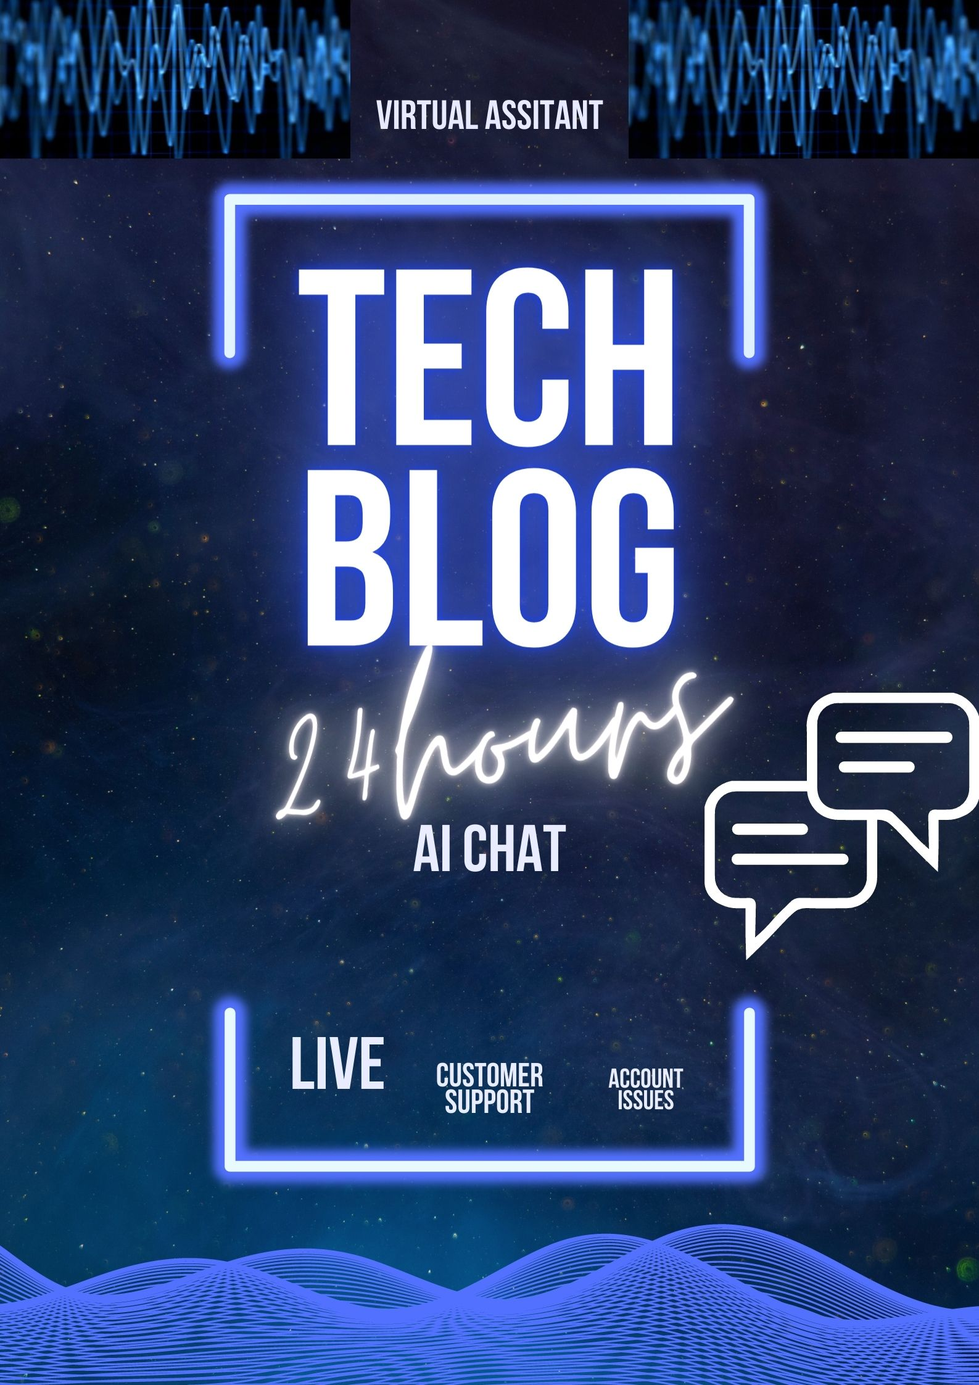
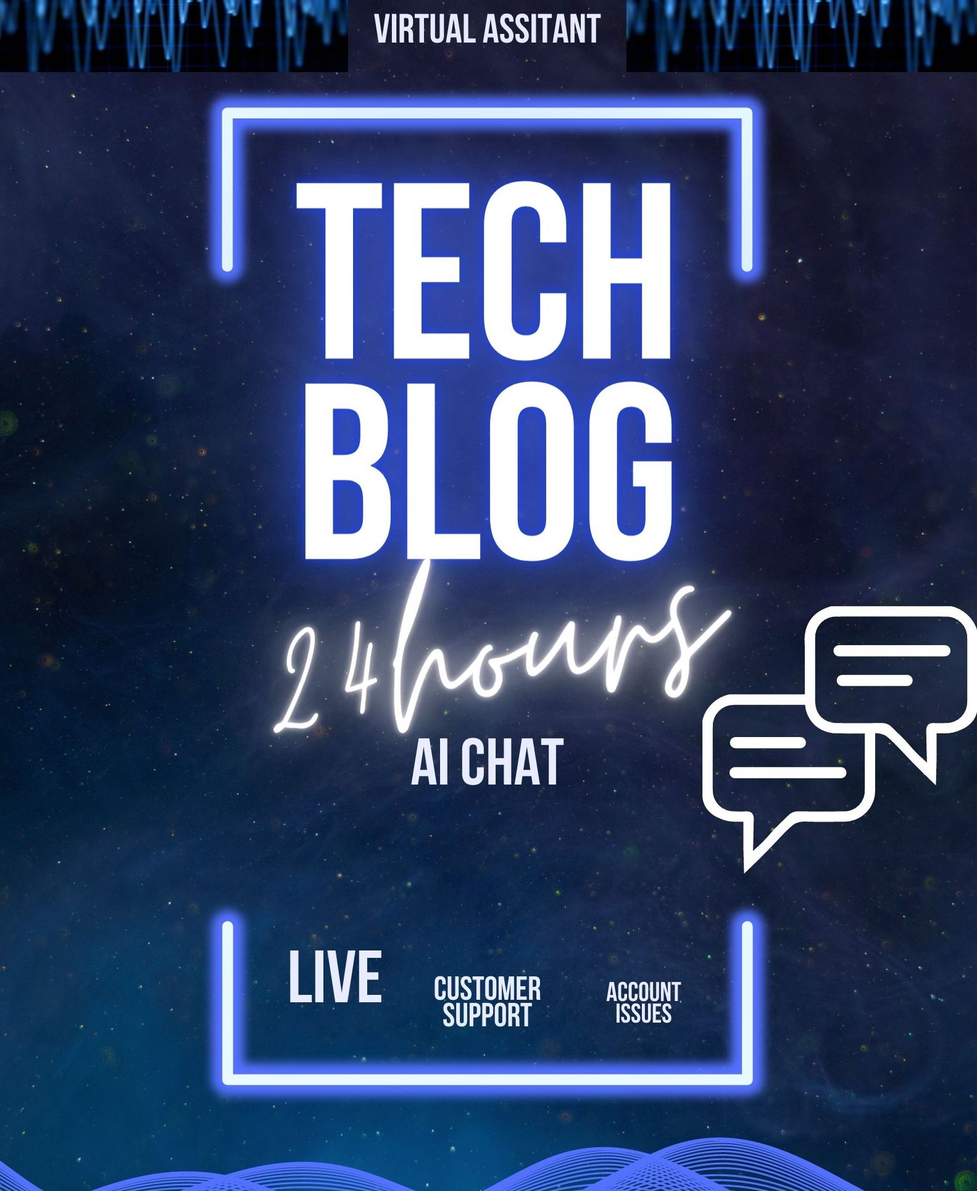
made some changes

diff --git a/build/static/js/main.11b0cb2d.chunk.js b/build/static/js/main.11b0cb2d.chunk.js
@@ -1,0 +1,2 @@
+(this["webpackJsonpgohelppal.com"]=this["webpackJsonpgohelppal.com"]||[]).push([[0],{57:function(e,t,c){},61:function(e,t,c){},62:function(e,t,c){},71:function(e,t,c){},93:function(e,t,c){},94:function(e,t,c){},96:function(e,t,c){"use strict";c.r(t);var i=c(4),s=c.n(i),n=c(26),l=c.n(n),o=(c(57),c(58),c(59),c(60),c.p,c(61),c(7)),a=c(43),r=c(44),j=c(53),b=c(52),h=(c(62),c(10)),d=c(47),x=c(45),u=c(2),O=function(e){Object(j.a)(c,e);var t=Object(b.a)(c);function c(){return Object(a.a)(this,c),t.apply(this,arguments)}return Object(r.a)(c,[{key:"render",value:function(){this.props.location.pathname;return Object(u.jsxs)("div",{className:"nav",children:[Object(u.jsx)("div",{id:"sectionOne",children:Object(u.jsx)("h3",{style:{paddingBottom:"1px",fontSize:"27px",fontFamily:"Futura",fontWeight:"bold"},children:Object(u.jsx)("span",{style:{color:"#00F4A2"},children:"GoHelpPal"})})}),Object(u.jsxs)("div",{id:"sectionTwo",children:[Object(u.jsx)(h.b,{to:"/",className:"Nav__brand"}),Object(u.jsx)("div",{className:"aboutMe",children:Object(u.jsx)(h.c,{className:"firstLink",to:"/about",activeStyle:{color:"#ECEFF8"},style:{color:"#00F4A2"},children:Object(u.jsx)("div",{className:"App",children:Object(u.jsx)(x.a,{icon:d.a,style:{fontSize:"18px"}})})})}),Object(u.jsx)("div",{className:"Resume",children:Object(u.jsx)(h.c,{className:"fourthLink",to:"/resume",activeStyle:{color:"#ECEFF8",fontSize:"18px"},style:{color:"#808080"},children:"Johny Matharu"})})]})]})}}]),c}(s.a.Component),f=Object(o.f)(O),p=(c(71),c.p+"static/media/1.b653a956.jpeg"),y=c.p+"static/media/2.cd06719c.jpeg",m=c.p+"static/media/3.a96f49be.jpeg",v=c.p+"static/media/4.ad53aca6.jpeg",F=c(21),g=c(12),S=c.n(g);function z(){return Object(u.jsxs)("section",{children:[Object(u.jsx)(F.c,{id:"size",children:Object(u.jsxs)("div",{className:"backround",children:[Object(u.jsx)("h3",{className:"headingBack",style:{fontSize:"18px",fontFamily:"Futura",fontWeight:"bold",color:"white"},children:"2021 University Projects"}),Object(u.jsxs)("div",{id:"button",children:[Object(u.jsxs)("div",{id:"height",children:[Object(u.jsxs)("div",{id:"equalBox",children:[" ",Object(u.jsx)("span",{children:Object(u.jsx)("h3",{style:{fontFamily:"Futura",color:"#808080",fontSize:"18px"},children:"myBid\xa0"})}),Object(u.jsxs)("h6",{children:[Object(u.jsx)("a",{href:"https://github.com/PrimalOrB/myBid",children:Object(u.jsx)("i",{class:"fab fa-github",style:{color:"#00F4A2",fontSize:"16px"}})})," "]}),Object(u.jsx)("br",{}),Object(u.jsx)("br",{})]}),Object(u.jsx)("div",{id:"equalBox",children:Object(u.jsx)("a",{href:"https://mybid-live.herokuapp.com/",children:Object(u.jsx)("img",{src:p})})}),Object(u.jsxs)("div",{id:"equalBox",children:[Object(u.jsx)("br",{}),Object(u.jsx)("h6",{style:{fontFamily:"Futura",color:"black",fontSize:"15px"},children:" MERN Full Stack SPA: An auction platform "}),Object(u.jsx)("h6",{style:{fontFamily:"Futura",color:"black",fontSize:"15px"},children:"with social features allowing anyone to"}),Object(u.jsx)("h6",{style:{fontFamily:"Futura",color:"black",fontSize:"15px"},children:"create and bid on auctions. Once you\u2019ve won"}),Object(u.jsx)("h6",{style:{fontFamily:"Futura",color:"black",fontSize:"15px"},children:"an auction pay using Stripe or any Cryptocurrency."})]})]}),Object(u.jsxs)("div",{id:"height",children:[Object(u.jsxs)("div",{id:"equalBox",children:[Object(u.jsx)("h3",{style:{fontFamily:"Futura",color:"#808080",fontSize:"18px"},children:"Tech Blog\xa0"}),Object(u.jsx)("h6",{children:Object(u.jsx)("a",{href:"https://github.com/JohnyMatharu/Tech-Blog",children:Object(u.jsx)("i",{class:"fab fa-github",style:{color:"#00F4A2",fontSize:"18px"}})})}),Object(u.jsx)("br",{}),Object(u.jsx)("br",{})]}),Object(u.jsx)("div",{id:"equalBox",children:Object(u.jsx)("a",{href:"https://stormy-castle-86583.herokuapp.com/",children:Object(u.jsx)("img",{src:y})})}),Object(u.jsxs)("div",{id:"equalBox",children:[Object(u.jsx)("br",{}),Object(u.jsx)("h6",{style:{fontFamily:"Futura",color:"black",fontSize:"15px"},children:" An app for users to post help offers help "}),Object(u.jsx)("h6",{style:{fontFamily:"Futura",color:"black",fontSize:"15px"},children:"or volunteer opportunities. People will"}),Object(u.jsx)("h6",{style:{fontFamily:"Futura",color:"black",fontSize:"15px"},children:"leave their posts who wish to help or volunteer."}),Object(u.jsx)("h6",{style:{fontFamily:"Futura",color:"black",fontSize:"15px"},children:"Person requesting can offer a reward to helper."})]})]}),Object(u.jsxs)("div",{id:"height",children:[Object(u.jsxs)("div",{id:"equalBox",children:[" ",Object(u.jsx)("h3",{style:{fontFamily:"Futura",color:"#808080",fontSize:"18px"},children:"Maunny\xa0"}),Object(u.jsx)("h6",{children:Object(u.jsx)("a",{href:"https://github.com/JohnyMatharu/Maunny/tree/main",children:Object(u.jsx)("i",{class:"fab fa-github",style:{color:"#00F4A2",fontSize:"18px"}})})}),Object(u.jsx)("br",{}),Object(u.jsx)("br",{})]}),Object(u.jsx)("div",{id:"equalBox",children:Object(u.jsx)("a",{href:"https://johnymatharu.github.io/Maunny/",children:Object(u.jsx)("img",{src:m})})}),Object(u.jsxs)("div",{id:"equalBox",children:[Object(u.jsx)("br",{}),Object(u.jsx)("h6",{style:{fontFamily:"Futura",color:"black",fontSize:"15px"},children:" Maunny is an application that gets comprehensive"}),Object(u.jsx)("h6",{style:{fontFamily:"Futura",color:"black",fontSize:"15px"},children:"information that would assist users in making"}),Object(u.jsx)("h6",{style:{fontFamily:"Futura",color:"black",fontSize:"15px"},children:"a correct purchase decision. Its an online"}),Object(u.jsx)("h6",{style:{fontFamily:"Futura",color:"black",fontSize:"15px"},children:"dealership, can search a vehicle from inventory."})]})]}),Object(u.jsx)("button",{class:"scroll-btn scroll-to-left btn btn-light btn-arrow-left",type:"button",children:Object(u.jsx)("i",{class:"fas fa-chevron-left"})}),Object(u.jsx)("button",{class:"scroll-btn scroll-to-right btn btn-light btn-arrow-right",type:"button",children:Object(u.jsx)("i",{class:"fas fa-chevron-right"})})]})]})}),Object(u.jsx)("div",{id:"space"}),Object(u.jsx)("div",{id:"space"}),Object(u.jsx)("div",{id:"space"}),Object(u.jsxs)(F.c,{id:"size",children:[Object(u.jsxs)("div",{className:"backround2",children:[Object(u.jsx)("h3",{className:"headingBack",style:{fontSize:"18px",fontFamily:"Futura",fontWeight:"bold",color:"white"},children:"2022 - 2023 Personal E-Commmerce Project"}),Object(u.jsxs)("div",{id:"button",children:[Object(u.jsxs)("div",{id:"height",children:[Object(u.jsxs)("div",{id:"equalBox",children:[Object(u.jsx)("h3",{style:{fontFamily:"Futura",color:"#808080",fontSize:"18px"},children:"MAUGNY\xa0"}),Object(u.jsx)("h6",{children:Object(u.jsx)("a",{href:"https://github.com/JohnyMatharu/maugny.com",children:Object(u.jsx)("i",{class:"fab fa-github",style:{color:"#00F4A2",fontSize:"18px"}})})}),Object(u.jsx)("br",{}),Object(u.jsx)("br",{})]}),Object(u.jsx)("div",{id:"equalBoxSpecial",children:Object(u.jsx)("a",{href:"https://johnymatharu.github.io/maugny.com/",children:Object(u.jsx)("img",{src:v})})}),Object(u.jsx)("br",{}),Object(u.jsxs)("div",{id:"equalBox",children:[Object(u.jsx)("h6",{style:{fontFamily:"Futura",color:"black",fontSize:"15px"},children:"Maugny is e-commerce site which sells automotive"}),Object(u.jsx)("h6",{style:{fontFamily:"Futura",color:"black",fontSize:"15px"},children:"sports jewelry and gear. Goal is to connect"}),Object(u.jsx)("h6",{style:{fontFamily:"Futura",color:"black",fontSize:"15px"},children:"and buyer for best deal negotiation i.e. supplier"}),Object(u.jsx)("h6",{style:{fontFamily:"Futura",color:"black",fontSize:"15px"},children:"quality and returnable sizes with fastest delivery."})]})]}),Object(u.jsx)("button",{class:"scroll-btn scroll-to-left btn btn-light btn-arrow-left",type:"button",children:Object(u.jsx)("i",{class:"fas fa-chevron-left"})}),Object(u.jsx)("button",{class:"scroll-btn scroll-to-right btn btn-light btn-arrodw-right",type:"button",children:Object(u.jsx)("i",{class:"fas fa-chevron-right"})})]})]}),Object(u.jsx)("div",{className:"backround3"})]})]})}S()((function(){var e=30;function t(t,c){return t?e<1?0:270:e>=function(e){for(var t=S.a.map(S()(">*",e),(function(e){return S()(e).width()})),c=0,i=0;i<t.length;i++)c=t[i]>c?t[i]:c;return c}(c)?0:270}S()(".scroll-btn.scroll-to-left").on("click",(function(){S()(this).parent().scrollLeft(e-=t(!0,S()(this).parent()))})),S()(".scroll-btn.scroll-to-right").on("click",(function(){S()(this).parent().scrollLeft(e+=t(!1,S()(this).parent()))}))}));var k=c.p+"static/media/5.8c497fff.jpeg";c(93);function w(){return Object(u.jsxs)("section",{children:[Object(u.jsx)(F.c,{id:"size",children:Object(u.jsx)("div",{className:"backroundProfile",children:Object(u.jsxs)("div",{id:"buttonProfile",children:[Object(u.jsx)("div",{id:"profileSpace"}),Object(u.jsx)("div",{id:"profileName",children:Object(u.jsx)("h3",{style:{fontFamily:"Cursive",color:"#808080",fontSize:"18px"},children:"Johny Matharu"})}),Object(u.jsx)("div",{id:"profilePic",children:Object(u.jsx)("img",{id:"imgProfile",src:k})}),Object(u.jsx)("div",{id:"afterPicSpace"}),Object(u.jsxs)("div",{id:"profileContent",children:[Object(u.jsx)("h6",{style:{fontFamily:"Futura",fontSize:"15px"},children:"CONTENT CREATOR"}),Object(u.jsx)("h6",{style:{fontFamily:"Futura",fontSize:"15px"},children:"gohelppal@gmail.com"}),Object(u.jsx)("h6",{style:{fontFamily:"Futura",fontSize:"15px"},children:"1-(416) 998 0934"}),Object(u.jsx)("h6",{style:{fontFamily:"Futura",fontSize:"15px"},children:"-------------------------------"}),Object(u.jsx)("h6",{style:{fontFamily:"Futura",fontSize:"15px"},children:"Downtown Barrie"}),Object(u.jsx)("h6",{style:{fontFamily:"Futura",fontSize:"15px"},children:"www.gohelppal.com"}),Object(u.jsx)("h6",{style:{fontFamily:"Futura",fontSize:"15px"},children:"-------------------------------"})]}),Object(u.jsx)("div",{id:"profileSpace"})]})})}),Object(u.jsx)("div",{id:"space"}),Object(u.jsx)("div",{id:"space"}),Object(u.jsx)("div",{id:"space"}),Object(u.jsx)("div",{id:"space"}),Object(u.jsx)("div",{id:"space"}),Object(u.jsx)("div",{id:"space"}),Object(u.jsx)("div",{id:"space"}),Object(u.jsx)("div",{id:"space"}),Object(u.jsx)("div",{id:"space"})]})}c(94);function B(){return Object(u.jsxs)("div",{id:"footer",children:[Object(u.jsxs)("div",{class:"space",id:"Mail",children:[Object(u.jsx)("br",{}),Object(u.jsx)("br",{}),Object(u.jsx)("a",{href:"mailto: jaani.matharu@gmail.com",children:Object(u.jsx)("i",{class:"fas fa-envelope",style:{color:"#00F4A2",fontSize:"18px"}})})]}),Object(u.jsxs)("div",{class:"space",id:"Facebook",children:[Object(u.jsx)("br",{}),Object(u.jsx)("br",{}),Object(u.jsx)("a",{href:"https://www.facebook.com/GoHelpPal/",children:Object(u.jsx)("i",{class:"fab fa-facebook",style:{color:"#00F4A2",fontSize:"18px"}})})]}),Object(u.jsxs)("div",{class:"space",id:"Linkedin",children:[Object(u.jsx)("br",{}),Object(u.jsx)("br",{}),Object(u.jsx)("a",{href:"https://www.linkedin.com/in/johny-matharu-0b0973115/",children:Object(u.jsx)("i",{class:"fab fa-linkedin",style:{color:"#00F4A2",fontSize:"18px"}})})]}),Object(u.jsxs)("div",{class:"space",id:"Github",children:[Object(u.jsx)("br",{}),Object(u.jsx)("br",{}),Object(u.jsx)("a",{href:"https://github.com/JohnyMatharu",children:Object(u.jsx)("i",{class:"fab fa-github",style:{color:"#00F4A2",fontSize:"18px"}})})]}),Object(u.jsxs)("div",{class:"space",id:"Stack-OverFlow",children:[Object(u.jsx)("br",{}),Object(u.jsx)("br",{}),Object(u.jsx)("a",{href:"https://stackexchange.com/users/20383702/johny-matharu",children:Object(u.jsx)("i",{class:"fab fa-stack-overflow",style:{color:"#00F4A2",fontSize:"18px"}})})]}),Object(u.jsxs)("div",{class:"space",id:"Phone",children:[Object(u.jsx)("br",{}),Object(u.jsx)("br",{}),Object(u.jsx)("h6",{style:{color:"black",fontSize:"15px",fontFamily:"Futura"},children:"\xa9 2021"})]})]})}var N=function(){return Object(u.jsxs)("div",{className:"App",children:[Object(u.jsxs)(h.a,{children:[Object(u.jsx)(f,{}),Object(u.jsx)(o.a,{exact:!0,path:"/",component:z}),Object(u.jsx)("div",{children:Object(u.jsxs)(o.c,{children:[Object(u.jsx)(o.a,{exact:!0,path:"/about",component:z}),Object(u.jsx)(o.a,{exact:!0,path:"/resume",component:w})]})})]}),Object(u.jsx)(B,{})]})},A=function(e){e&&e instanceof Function&&c.e(3).then(c.bind(null,100)).then((function(t){var c=t.getCLS,i=t.getFID,s=t.getFCP,n=t.getLCP,l=t.getTTFB;c(e),i(e),s(e),n(e),l(e)}))};c(95);l.a.render(Object(u.jsx)(s.a.StrictMode,{children:Object(u.jsx)(N,{})}),document.getElementById("root")),A()}},[[96,1,2]]]);
+//# sourceMappingURL=main.11b0cb2d.chunk.js.map

diff --git a/src/pages/About.js b/src/pages/About.js
@@ -55,6 +55,8 @@ $(function() {
 
 
 
+
+
 export default function AboutMe() {
 
     return (
@@ -82,14 +84,13 @@ called height 1, 2 and 3 */ }
     </div>  
 
     {/* <div id= "equalBox"><a href='https://mybid-live.herokuapp.com/'><img id ="pic1" src={pic1}></img></a></div> */}
-    <div id= "equalBox"><a href='https://mybid-live.herokuapp.com/'><img src={pic1}></img></a></div> 
+    <div id= "equalBox"><a href='https://mybid-live.herokuapp.com/'><img id = "pic" src={pic1}></img></a></div> 
   
   <div id= "equalBox"> 
   <br></br>
   <h6 style = {{fontFamily: "Futura", color: 'black', fontSize: '15px'}}> MERN Full Stack SPA: An auction platform </h6>
-    <h6 style = {{fontFamily: "Futura", color: 'black', fontSize: '15px'}}>with social features allowing anyone to</h6>
-    <h6 style = {{fontFamily: "Futura", color: 'black', fontSize: '15px'}}>create and bid on auctions. Once you’ve won</h6>
-    <h6 style = {{fontFamily: "Futura", color: 'black', fontSize: '15px'}}>an auction pay using Stripe or any Cryptocurrency.</h6>
+    <h6 style = {{fontFamily: "Futura", color: 'black', fontSize: '15px'}}>allowing anyone to create and bid on auctions.</h6>
+    <h6 style = {{fontFamily: "Futura", color: 'black', fontSize: '15px'}}>Pay by Stripe or Cryptocurrency.</h6>
   
     </div> 
   
@@ -103,24 +104,24 @@ called height 1, 2 and 3 */ }
     
     
     <div id= "equalBox">
-    <h3 style={{fontFamily: 'Futura', color: "#808080", fontSize: '18px'}}>Tech Blog&nbsp;</h3>
-  <h6><a href='https://github.com/JohnyMatharu/Tech-Blog'><i class="fab fa-github" style={{color: "#00F4A2", fontSize: '18px' }}></i></a>
-  </h6>
+    <h3 style={{fontFamily: 'Futura', color: "#808080", fontSize: '18px'}}>Tech AI Chat&nbsp;</h3>
+  <h6><a href='https://github.com/JohnyMatharu/Tech-Blog-AI-Chat'><i class="fab fa-github" style={{color: "#00F4A2", fontSize: '18px' }}></i></a>
+  </h6>  
+  {/* 'https://github.com/JohnyMatharu/Tech-Blog' */}
   <br></br>
     <br></br>
   </div>
   
   <div id= "equalBox">
-  <a href='https://stormy-castle-86583.herokuapp.com/'><img src={pic2}></img></a>
+  <a href='https://johnymatharu.github.io/Tech-Blog-AI-Chat/'><img id = "pic"  src={pic2}></img></a>
   </div>
-  
+  {/* 'https://stormy-castle-86583.herokuapp.com/'  */}
   <div id= "equalBox">
   <br></br>
-  <h6 style = {{fontFamily: "Futura", color: 'black', fontSize: '15px'}}> An app for users to post help offers help </h6>
+  <h6 style = {{fontFamily: "Futura", color: 'black', fontSize: '15px'}}> An app for users to post help, offers help </h6>
     <h6 style = {{fontFamily: "Futura", color: 'black', fontSize: '15px'}}>or volunteer opportunities. People will</h6>
     <h6 style = {{fontFamily: "Futura", color: 'black', fontSize: '15px'}}>leave their posts who wish to help or volunteer.</h6>
-    <h6 style = {{fontFamily: "Futura", color: 'black', fontSize: '15px'}}>Person requesting can offer a reward to helper.</h6>
-
+   
     </div>
 
 
@@ -141,27 +142,27 @@ called height 1, 2 and 3 */ }
   </div> 
   
   <div id= "equalBox">
-  <a href='https://johnymatharu.github.io/Maunny/'><img src={pic3}></img></a>
+  <a href='https://johnymatharu.github.io/Maunny/'><img id = "pic"  src={pic3}></img></a>
   </div>
   
   <div id= "equalBox">
   <br></br>
   <h6 style = {{fontFamily: "Futura", color: 'black', fontSize: '15px'}}> Maunny is an application that gets comprehensive</h6>
     <h6 style = {{fontFamily: "Futura", color: 'black', fontSize: '15px'}}>information that would assist users in making</h6>
-    <h6 style = {{fontFamily: "Futura", color: 'black', fontSize: '15px'}}>a correct purchase decision. Its an online</h6>
-    <h6 style = {{fontFamily: "Futura", color: 'black', fontSize: '15px'}}>dealership, can search a vehicle from inventory.</h6>
+    <h6 style = {{fontFamily: "Futura", color: 'black', fontSize: '15px'}}>a correct purchase decision. Its an online dealership.</h6>
+      
+ 
     </div>
-
+ 
 {/* this is end of height 3 */}
   </div>
   
   
-  
-  <button class="scroll-btn scroll-to-left btn btn-light btn-arrow-left" 
-  type="button"><i class="fas fa-chevron-left"></i></button>
-    <button class="scroll-btn scroll-to-right btn btn-light btn-arrow-right" type="button"><i class="fas fa-chevron-right"></i></button>
-    
-         
+
+  {/* <button class="scroll-btn scroll-to-left btn btn-light btn-arrow-left"  */}
+  {/* type="button"><i class="fas fa-chevron-left"></i></button> */}
+    {/* <button class="scroll-btn scroll-to-right btn btn-light btn-arrow-right" type="button"><i class="fas fa-chevron-right"></i></button> */}
+        
          {/* this is end of button */}
    </div>
 
@@ -207,21 +208,20 @@ called height 1, 2 and 3 */ }
     </div>
     
     <div id= "equalBoxSpecial">
-    <a href='https://johnymatharu.github.io/maugny.com/'><img src={pic4}></img></a>
+    <a href='https://johnymatharu.github.io/maugny.com/'><img id = "pic"  src={pic4}></img></a>
     </div>
     <br></br>
     <div id= "equalBox">
     <h6 style = {{fontFamily: "Futura", color: 'black', fontSize: '15px'}}>Maugny is e-commerce site which sells automotive</h6>
     <h6 style = {{fontFamily: "Futura", color: 'black', fontSize: '15px'}}>sports jewelry and gear. Goal is to connect</h6>
-    <h6 style = {{fontFamily: "Futura", color: 'black', fontSize: '15px'}}>and buyer for best deal negotiation i.e. supplier</h6>
-    <h6 style = {{fontFamily: "Futura", color: 'black', fontSize: '15px'}}>quality and returnable sizes with fastest delivery.</h6>
-    </div>
+    <h6 style = {{fontFamily: "Futura", color: 'black', fontSize: '15px'}}>buyer for best deal negotiation with supplier.</h6>
+       </div>
     
     </div>
   
   {/* these buttons are connected to this div, when you add 2023 projects then this will disappear and same buttons will be added to that div instead */}
-  <button class="scroll-btn scroll-to-left btn btn-light btn-arrow-left" type="button"><i class="fas fa-chevron-left"></i></button>
-    <button class="scroll-btn scroll-to-right btn btn-light btn-arrodw-right" type="button"><i class="fas fa-chevron-right"></i></button>
+  {/* <button class="scroll-btn scroll-to-left btn btn-light btn-arrow-left" type="button"><i class="fas fa-chevron-left"></i></button> */}
+    {/* <button class="scroll-btn scroll-to-right btn btn-light btn-arrodw-right" type="button"><i class="fas fa-chevron-right"></i></button> */}
          
    </div>
           </div>

diff --git a/build/index.html b/build/index.html
@@ -1,1 +1,1 @@
-<!doctype html><html lang="en"><head><meta charset="utf-8"/><link rel="icon" href="/gohelppal.com/favicon.ico"/><meta name="viewport" content="width=device-width,initial-scale=1"/><meta name="theme-color" content="#000000"/><meta name="description" content="Web site created using create-react-app"/><link rel="apple-touch-icon" href="/gohelppal.com/logo192.png"/><link rel="manifest" href="/gohelppal.com/manifest.json"/><title>GoHelpPal</title><link href="/gohelppal.com/static/css/2.0238416c.chunk.css" rel="stylesheet"><link href="/gohelppal.com/static/css/main.6a2fa0ee.chunk.css" rel="stylesheet"></head><body><noscript>You need to enable JavaScript to run this app.</noscript><div id="root"></div><script>!function(e){function r(r){for(var n,a,i=r[0],c=r[1],l=r[2],f=0,s=[];f<i.length;f++)a=i[f],Object.prototype.hasOwnProperty.call(o,a)&&o[a]&&s.push(o[a][0]),o[a]=0;for(n in c)Object.prototype.hasOwnProperty.call(c,n)&&(e[n]=c[n]);for(p&&p(r);s.length;)s.shift()();return u.push.apply(u,l||[]),t()}function t(){for(var e,r=0;r<u.length;r++){for(var t=u[r],n=!0,i=1;i<t.length;i++){var c=t[i];0!==o[c]&&(n=!1)}n&&(u.splice(r--,1),e=a(a.s=t[0]))}return e}var n={},o={1:0},u=[];function a(r){if(n[r])return n[r].exports;var t=n[r]={i:r,l:!1,exports:{}};return e[r].call(t.exports,t,t.exports,a),t.l=!0,t.exports}a.e=function(e){var r=[],t=o[e];if(0!==t)if(t)r.push(t[2]);else{var n=new Promise((function(r,n){t=o[e]=[r,n]}));r.push(t[2]=n);var u,i=document.createElement("script");i.charset="utf-8",i.timeout=120,a.nc&&i.setAttribute("nonce",a.nc),i.src=function(e){return a.p+"static/js/"+({}[e]||e)+"."+{3:"e4d316d0"}[e]+".chunk.js"}(e);var c=new Error;u=function(r){i.onerror=i.onload=null,clearTimeout(l);var t=o[e];if(0!==t){if(t){var n=r&&("load"===r.type?"missing":r.type),u=r&&r.target&&r.target.src;c.message="Loading chunk "+e+" failed.\n("+n+": "+u+")",c.name="ChunkLoadError",c.type=n,c.request=u,t[1](c)}o[e]=void 0}};var l=setTimeout((function(){u({type:"timeout",target:i})}),12e4);i.onerror=i.onload=u,document.head.appendChild(i)}return Promise.all(r)},a.m=e,a.c=n,a.d=function(e,r,t){a.o(e,r)||Object.defineProperty(e,r,{enumerable:!0,get:t})},a.r=function(e){"undefined"!=typeof Symbol&&Symbol.toStringTag&&Object.defineProperty(e,Symbol.toStringTag,{value:"Module"}),Object.defineProperty(e,"__esModule",{value:!0})},a.t=function(e,r){if(1&r&&(e=a(e)),8&r)return e;if(4&r&&"object"==typeof e&&e&&e.__esModule)return e;var t=Object.create(null);if(a.r(t),Object.defineProperty(t,"default",{enumerable:!0,value:e}),2&r&&"string"!=typeof e)for(var n in e)a.d(t,n,function(r){return e[r]}.bind(null,n));return t},a.n=function(e){var r=e&&e.__esModule?function(){return e.default}:function(){return e};return a.d(r,"a",r),r},a.o=function(e,r){return Object.prototype.hasOwnProperty.call(e,r)},a.p="/gohelppal.com/",a.oe=function(e){throw console.error(e),e};var i=this["webpackJsonpgohelppal.com"]=this["webpackJsonpgohelppal.com"]||[],c=i.push.bind(i);i.push=r,i=i.slice();for(var l=0;l<i.length;l++)r(i[l]);var p=c;t()}([])</script><script src="/gohelppal.com/static/js/2.8e2b4c9f.chunk.js"></script><script src="/gohelppal.com/static/js/main.727fb2d9.chunk.js"></script></body></html>
+<!doctype html><html lang="en"><head><meta charset="utf-8"/><link rel="icon" href="/gohelppal.com/favicon.ico"/><meta name="viewport" content="width=device-width,initial-scale=1"/><meta name="theme-color" content="#000000"/><meta name="description" content="Web site created using create-react-app"/><link rel="apple-touch-icon" href="/gohelppal.com/logo192.png"/><link rel="manifest" href="/gohelppal.com/manifest.json"/><title>GoHelpPal</title><link href="/gohelppal.com/static/css/2.0238416c.chunk.css" rel="stylesheet"><link href="/gohelppal.com/static/css/main.6a2fa0ee.chunk.css" rel="stylesheet"></head><body><noscript>You need to enable JavaScript to run this app.</noscript><div id="root"></div><script>!function(e){function r(r){for(var n,a,i=r[0],c=r[1],l=r[2],f=0,s=[];f<i.length;f++)a=i[f],Object.prototype.hasOwnProperty.call(o,a)&&o[a]&&s.push(o[a][0]),o[a]=0;for(n in c)Object.prototype.hasOwnProperty.call(c,n)&&(e[n]=c[n]);for(p&&p(r);s.length;)s.shift()();return u.push.apply(u,l||[]),t()}function t(){for(var e,r=0;r<u.length;r++){for(var t=u[r],n=!0,i=1;i<t.length;i++){var c=t[i];0!==o[c]&&(n=!1)}n&&(u.splice(r--,1),e=a(a.s=t[0]))}return e}var n={},o={1:0},u=[];function a(r){if(n[r])return n[r].exports;var t=n[r]={i:r,l:!1,exports:{}};return e[r].call(t.exports,t,t.exports,a),t.l=!0,t.exports}a.e=function(e){var r=[],t=o[e];if(0!==t)if(t)r.push(t[2]);else{var n=new Promise((function(r,n){t=o[e]=[r,n]}));r.push(t[2]=n);var u,i=document.createElement("script");i.charset="utf-8",i.timeout=120,a.nc&&i.setAttribute("nonce",a.nc),i.src=function(e){return a.p+"static/js/"+({}[e]||e)+"."+{3:"e4d316d0"}[e]+".chunk.js"}(e);var c=new Error;u=function(r){i.onerror=i.onload=null,clearTimeout(l);var t=o[e];if(0!==t){if(t){var n=r&&("load"===r.type?"missing":r.type),u=r&&r.target&&r.target.src;c.message="Loading chunk "+e+" failed.\n("+n+": "+u+")",c.name="ChunkLoadError",c.type=n,c.request=u,t[1](c)}o[e]=void 0}};var l=setTimeout((function(){u({type:"timeout",target:i})}),12e4);i.onerror=i.onload=u,document.head.appendChild(i)}return Promise.all(r)},a.m=e,a.c=n,a.d=function(e,r,t){a.o(e,r)||Object.defineProperty(e,r,{enumerable:!0,get:t})},a.r=function(e){"undefined"!=typeof Symbol&&Symbol.toStringTag&&Object.defineProperty(e,Symbol.toStringTag,{value:"Module"}),Object.defineProperty(e,"__esModule",{value:!0})},a.t=function(e,r){if(1&r&&(e=a(e)),8&r)return e;if(4&r&&"object"==typeof e&&e&&e.__esModule)return e;var t=Object.create(null);if(a.r(t),Object.defineProperty(t,"default",{enumerable:!0,value:e}),2&r&&"string"!=typeof e)for(var n in e)a.d(t,n,function(r){return e[r]}.bind(null,n));return t},a.n=function(e){var r=e&&e.__esModule?function(){return e.default}:function(){return e};return a.d(r,"a",r),r},a.o=function(e,r){return Object.prototype.hasOwnProperty.call(e,r)},a.p="/gohelppal.com/",a.oe=function(e){throw console.error(e),e};var i=this["webpackJsonpgohelppal.com"]=this["webpackJsonpgohelppal.com"]||[],c=i.push.bind(i);i.push=r,i=i.slice();for(var l=0;l<i.length;l++)r(i[l]);var p=c;t()}([])</script><script src="/gohelppal.com/static/js/2.8e2b4c9f.chunk.js"></script><script src="/gohelppal.com/static/js/main.11b0cb2d.chunk.js"></script></body></html>

diff --git a/src/pages/about.css b/src/pages/about.css
@@ -176,18 +176,21 @@ div.scrollmenu {
 }
 
   
-img{
 
-/* height: 100%; */
-padding-left: 21%;
-/* padding-top: 22.2%; */
-padding-right: 21%;
-/* padding-bottom: 30%; */
-width: 420px;
-   
-}
 
-  
+  #pic
+  {
+    width: 420.1px;
+    /* width: 320.1px; */
+  border: 27px solid #ECEFF8;;
+ 
+
+  }
+ /* 
+  this is for to fix above image tag, use 2 diff ids for images
+  width: 420.1px;
+border: 16px solid white;
+  */
 
   .fa-github
 {

diff --git a/src/components/footer.css b/src/components/footer.css
@@ -6,7 +6,8 @@
     align-items: center; 
     flex-direction: row;
     text-align: center;
-    height: 45px;
+    /* height: 45px; */
+    height: 65px;
 /* padding-left: 10%;   */
 /* padding-right: 10%;  */
 }

diff --git a/src/pages/resume.css b/src/pages/resume.css
@@ -106,8 +106,14 @@ height: 7.5%;
 
 #imgProfile{
  height: 243px;
+ padding-left: 21%;
+ /* padding-top: 22.2%; */
+ padding-right: 21%;
+ /* padding-bottom: 30%; */
+ width: 420px;
 }
 
+  
 
 
 
